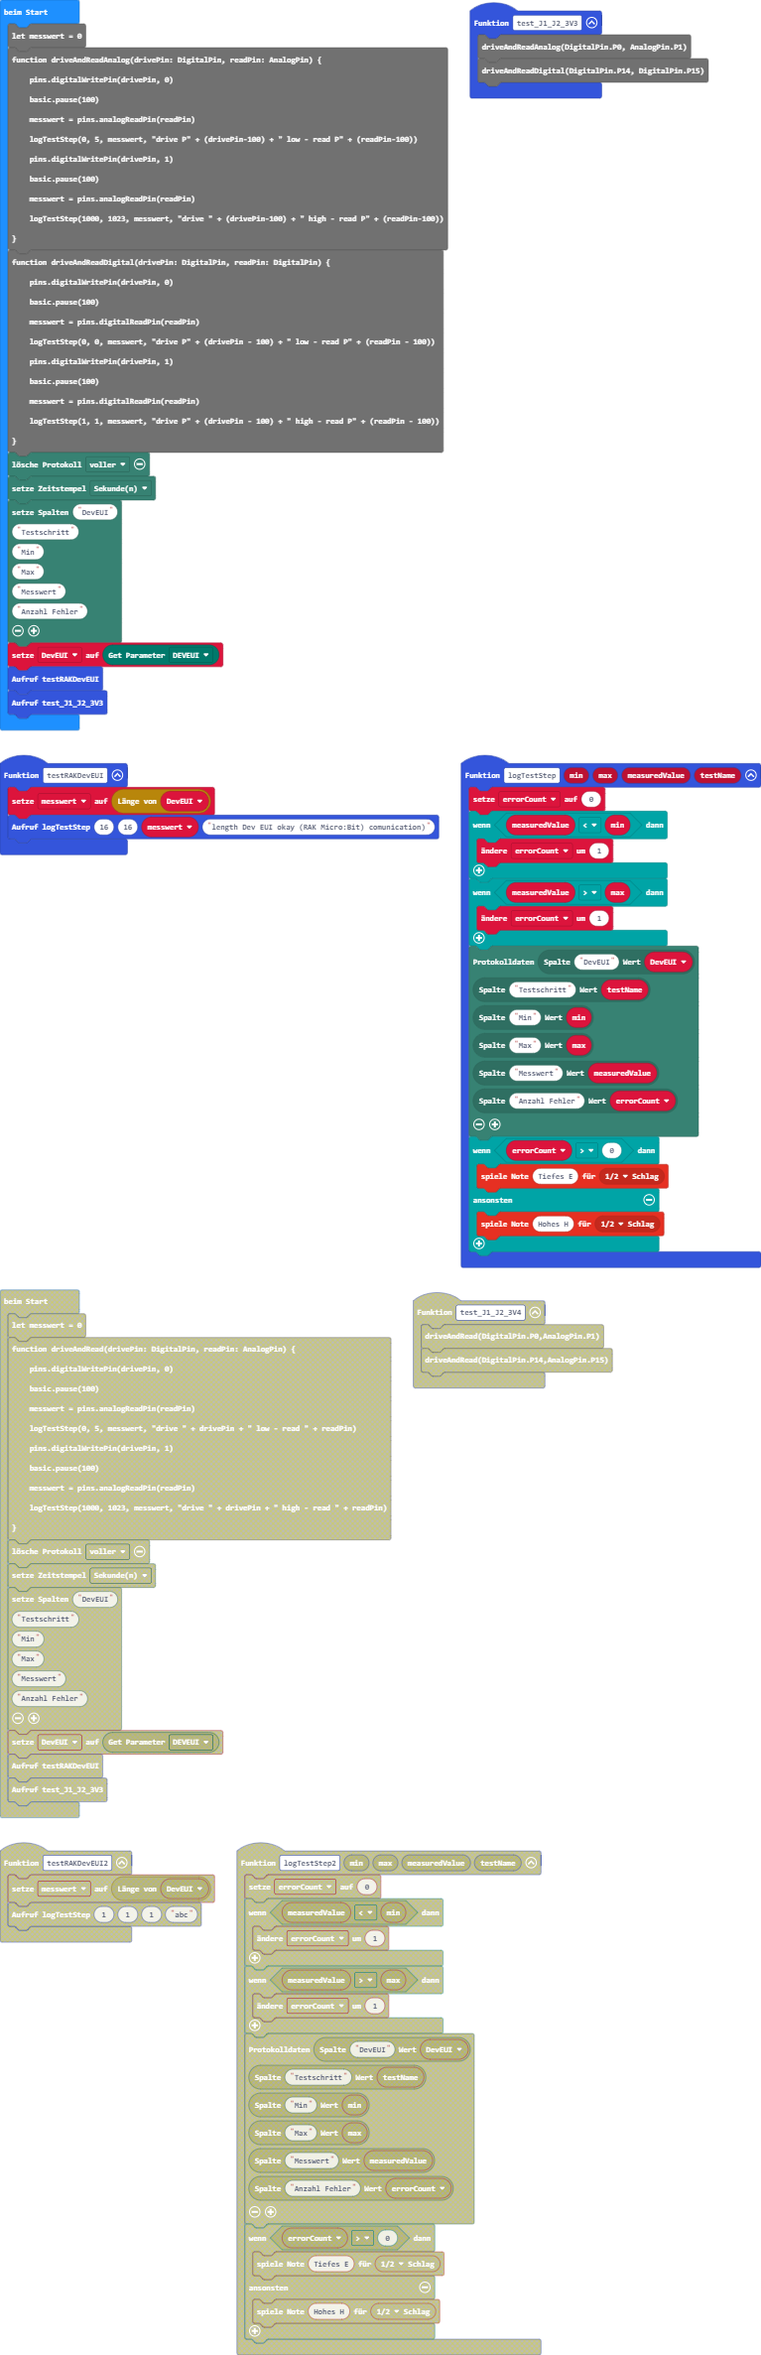
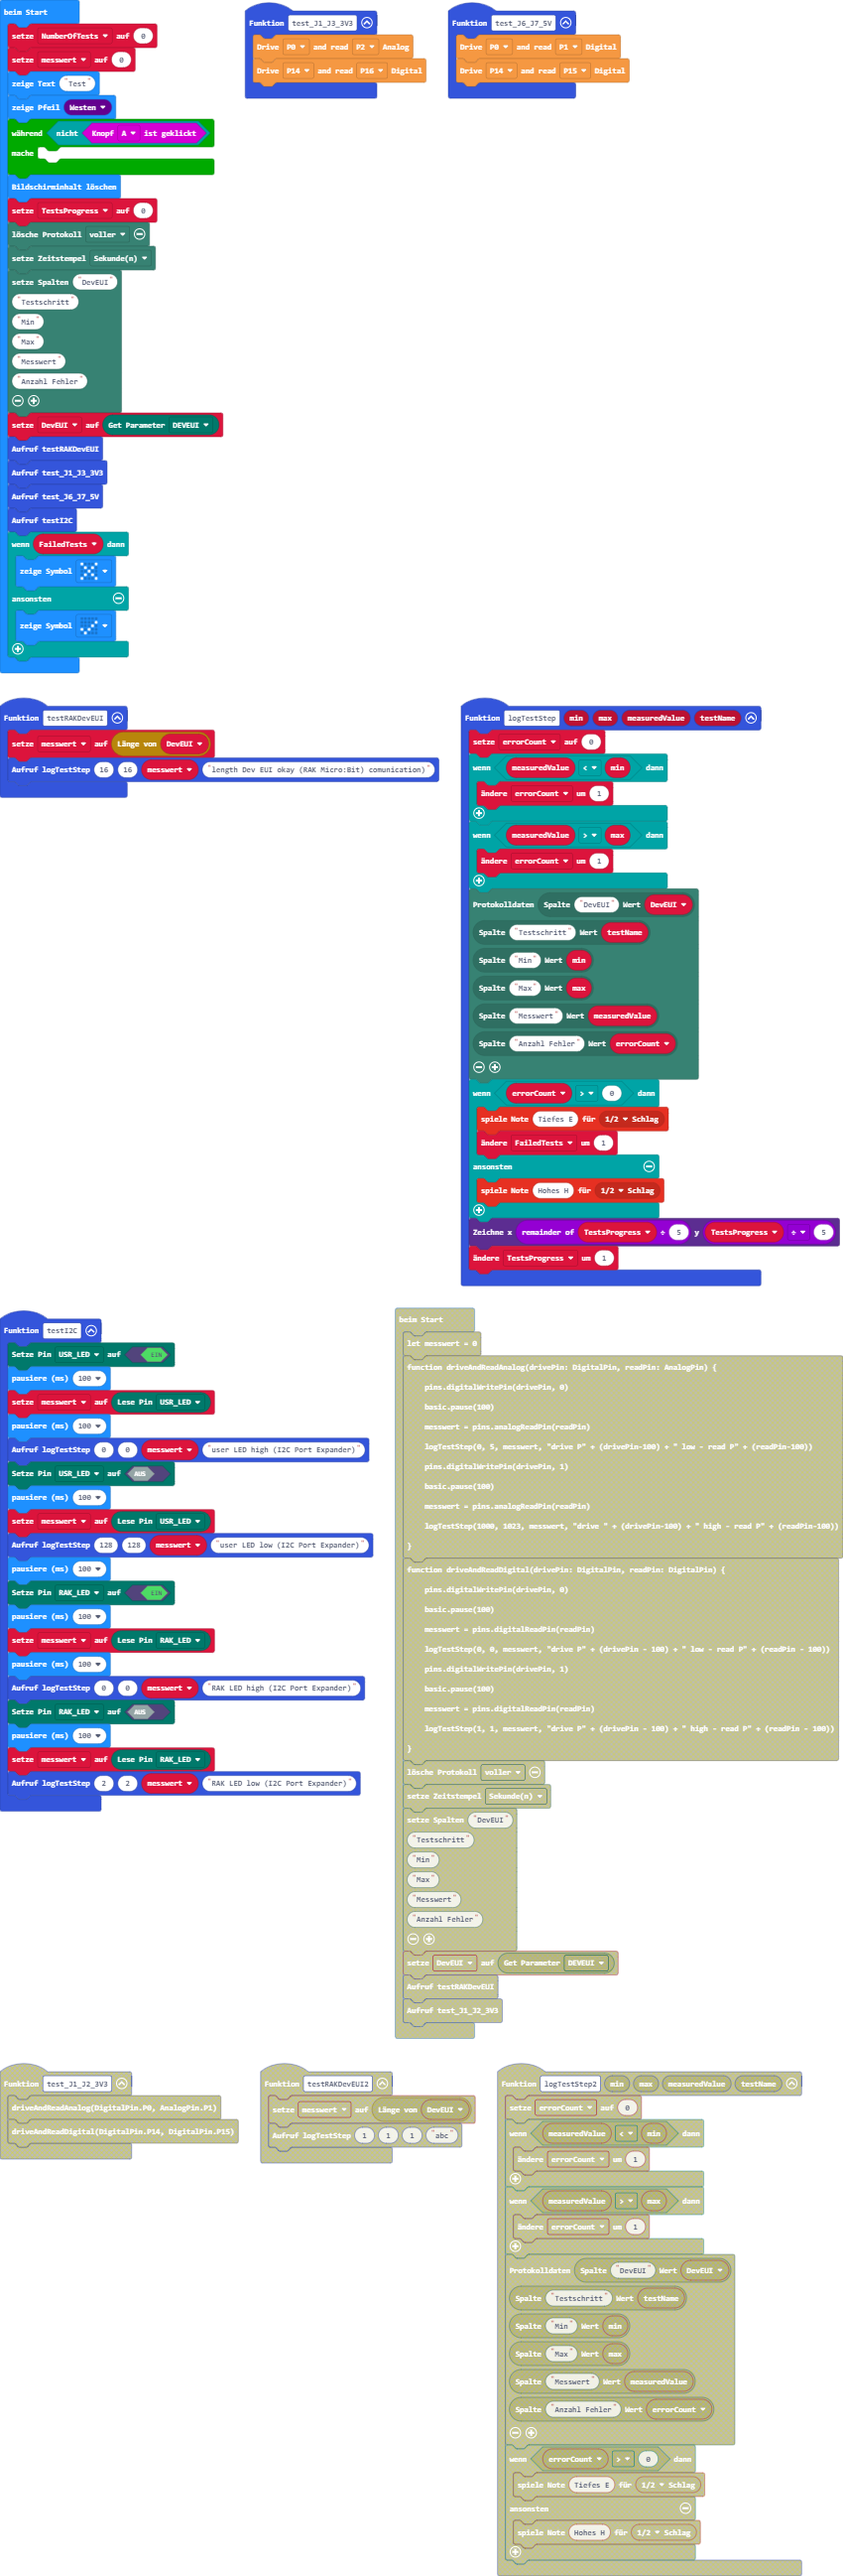
Move functions to namespace; Add test for I2C, 5V GPIO

diff --git a/main.ts b/main.ts
@@ -2,9 +2,34 @@ function testRAKDevEUI () {
     messwert = DevEUI.length
     logTestStep(16, 16, messwert, "length Dev EUI okay (RAK Micro:Bit) comunication)")
 }
-function test_J1_J2_3V3 () {
-    driveAndReadAnalog(DigitalPin.P0, AnalogPin.P1)
-driveAndReadDigital(DigitalPin.P14, DigitalPin.P15)
+function test_J1_J3_3V3 () {
+    Testing.driveAndReadAnalog(DigitalPin.P0, AnalogPin.P2)
+    Testing.driveAndReadDigital(DigitalPin.P14, DigitalPin.P16)
+}
+function testI2C () {
+    IoTCube.setPin(MCP_Pins.USR_LED, true)
+    basic.pause(100)
+    messwert = IoTCube.getPin(MCP_Pins.USR_LED)
+    basic.pause(100)
+    logTestStep(0, 0, messwert, "user LED high (I2C Port Expander)")
+    IoTCube.setPin(MCP_Pins.USR_LED, false)
+    basic.pause(100)
+    messwert = IoTCube.getPin(MCP_Pins.USR_LED)
+    logTestStep(128, 128, messwert, "user LED low (I2C Port Expander)")
+    basic.pause(100)
+    IoTCube.setPin(MCP_Pins.RAK_LED, true)
+    basic.pause(100)
+    messwert = IoTCube.getPin(MCP_Pins.RAK_LED)
+    basic.pause(100)
+    logTestStep(0, 0, messwert, "RAK LED high (I2C Port Expander)")
+    IoTCube.setPin(MCP_Pins.RAK_LED, false)
+    basic.pause(100)
+    messwert = IoTCube.getPin(MCP_Pins.RAK_LED)
+    logTestStep(2, 2, messwert, "RAK LED low (I2C Port Expander)")
+}
+function test_J6_J7_5V () {
+    Testing.driveAndReadDigital(DigitalPin.P0, DigitalPin.P1)
+    Testing.driveAndReadDigital(DigitalPin.P14, DigitalPin.P15)
 }
 function logTestStep (min: number, max: number, measuredValue: number, testName: string) {
     errorCount = 0
@@ -24,33 +49,27 @@ function logTestStep (min: number, max: number, measuredValue: number, testName:
     )
     if (errorCount > 0) {
         music.playTone(165, music.beat(BeatFraction.Half))
+        FailedTests += 1
     } else {
         music.playTone(988, music.beat(BeatFraction.Half))
     }
+    led.plot(TestsProgress % 5, TestsProgress / 5)
+    TestsProgress += 1
 }
 let errorCount = 0
+let FailedTests = 0
 let DevEUI = ""
+let TestsProgress = 0
 let messwert = 0
-function driveAndReadAnalog(drivePin: DigitalPin, readPin: AnalogPin) {
-    pins.digitalWritePin(drivePin, 0)
-    basic.pause(100)
-    messwert = pins.analogReadPin(readPin)
-    logTestStep(0, 5, messwert, "drive P" + (drivePin-100) + " low - read P" + (readPin-100))
-    pins.digitalWritePin(drivePin, 1)
-    basic.pause(100)
-    messwert = pins.analogReadPin(readPin)
-    logTestStep(1000, 1023, messwert, "drive " + (drivePin-100) + " high - read P" + (readPin-100))
+let NumberOfTests = 0
+messwert = 0
+basic.showString("Test")
+basic.showArrow(ArrowNames.West)
+while (!(input.buttonIsPressed(Button.A))) {
+	
 }
-function driveAndReadDigital(drivePin: DigitalPin, readPin: DigitalPin) {
-    pins.digitalWritePin(drivePin, 0)
-    basic.pause(100)
-    messwert = pins.digitalReadPin(readPin)
-    logTestStep(0, 0, messwert, "drive P" + (drivePin - 100) + " low - read P" + (readPin - 100))
-    pins.digitalWritePin(drivePin, 1)
-    basic.pause(100)
-    messwert = pins.digitalReadPin(readPin)
-    logTestStep(1, 1, messwert, "drive P" + (drivePin - 100) + " high - read P" + (readPin - 100))
-}
+basic.clearScreen()
+TestsProgress = 0
 datalogger.deleteLog(datalogger.DeleteType.Full)
 datalogger.includeTimestamp(FlashLogTimeStampFormat.Seconds)
 datalogger.setColumnTitles(
@@ -63,4 +82,11 @@ datalogger.setColumnTitles(
 )
 DevEUI = IoTCube.getParameter(eRUI3_PARAM.DEVEUI)
 testRAKDevEUI()
-test_J1_J2_3V3()
+test_J1_J3_3V3()
+test_J6_J7_5V()
+testI2C()
+if (FailedTests) {
+    basic.showIcon(IconNames.No)
+} else {
+    basic.showIcon(IconNames.Yes)
+}

diff --git a/testRoutines.ts b/testRoutines.ts
@@ -1,0 +1,29 @@
+//% color="#f59842" icon="\uf002" block="TestRoutines"
+namespace Testing {
+    //% blockId=driveAndReadAnalog
+    //% block="Drive %drivePin and read %readPin Analog"
+    export function driveAndReadAnalog(drivePin: DigitalPin, readPin: AnalogPin) {
+        pins.digitalWritePin(drivePin, 0)
+        basic.pause(100)
+        messwert = pins.analogReadPin(readPin)
+        logTestStep(0, 5, messwert, "drive P" + (drivePin - 100) + " low - read P" + (readPin - 100))
+        pins.digitalWritePin(drivePin, 1)
+        basic.pause(100)
+        messwert = pins.analogReadPin(readPin)
+        logTestStep(1000, 1023, messwert, "drive P" + (drivePin - 100) + " high - read P" + (readPin - 100))
+    }
+
+    //% blockId=driveAndReadDigital
+    //% block="Drive %drivePin and read %readPin Digital "
+    export function driveAndReadDigital(drivePin: DigitalPin, readPin: DigitalPin) {
+        pins.digitalWritePin(drivePin, 0)
+        basic.pause(100)
+        messwert = pins.digitalReadPin(readPin)
+        logTestStep(0, 0, messwert, "drive P" + (drivePin - 100) + " low - read P" + (readPin - 100))
+        pins.digitalWritePin(drivePin, 1)
+        basic.pause(100)
+        messwert = pins.digitalReadPin(readPin)
+        logTestStep(1, 1, messwert, "drive P" + (drivePin - 100) + " high - read P" + (readPin - 100))
+    }
+}
+
